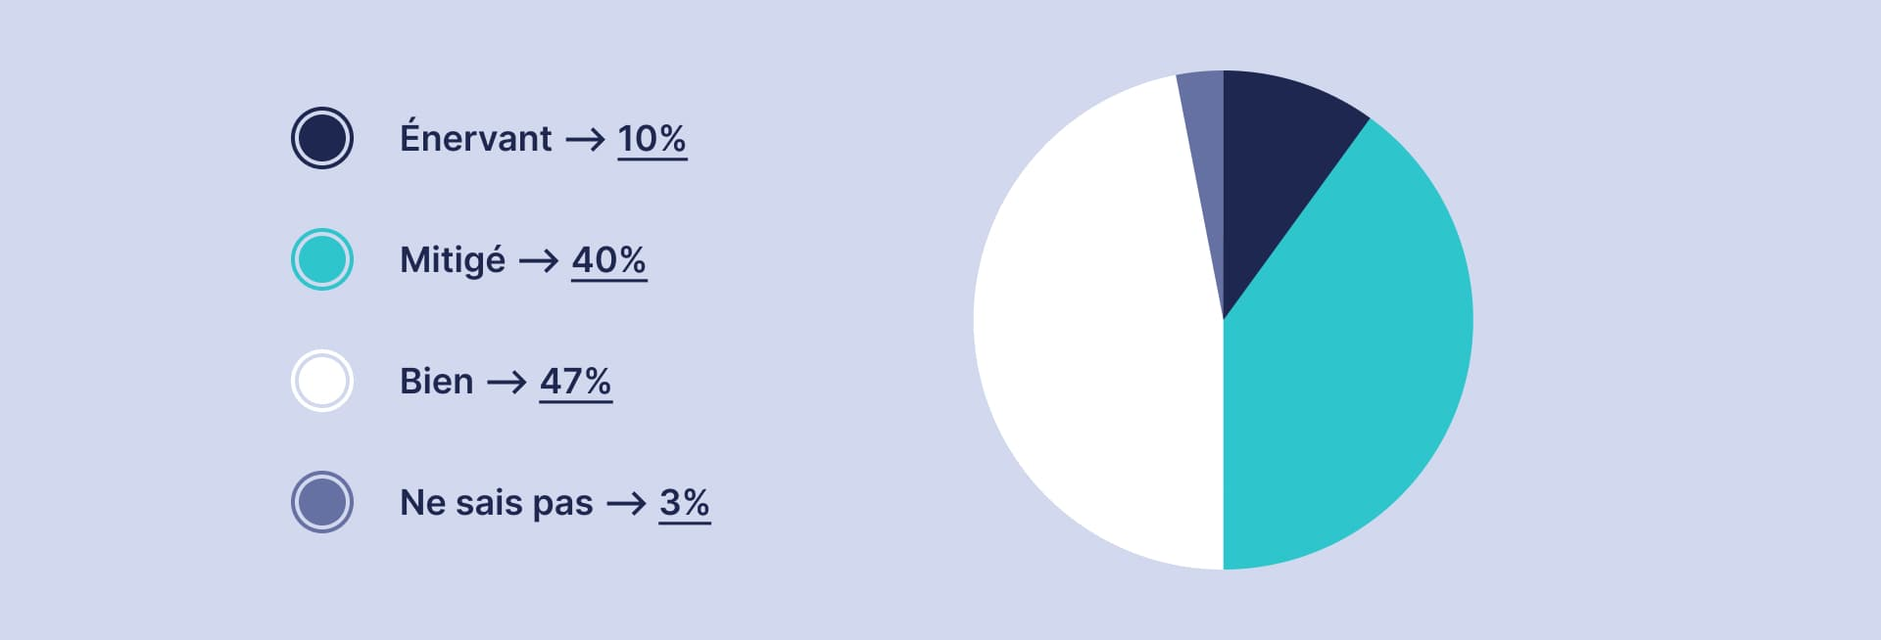
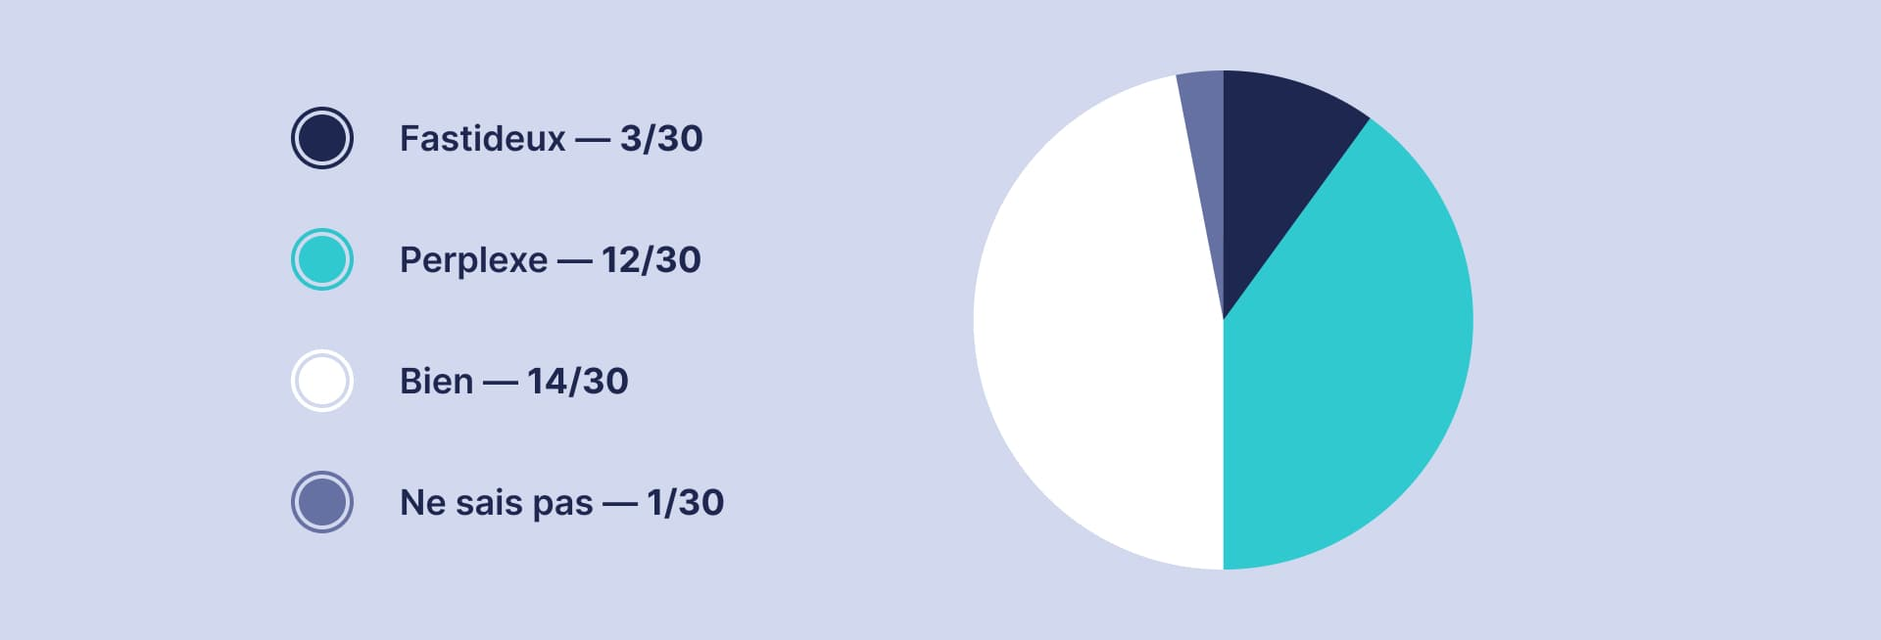
10 janvier
Amélioration rédaction + fonctionnalités

diff --git a/index.html b/index.html
@@ -11,6 +11,7 @@
   <link rel="stylesheet" href="css/style.css">  
   <script src="https://unpkg.com/phosphor-icons"></script>
   <title>Pour une autre expérience du formulaire numérique</title>
+  <link rel="icon" type="image/x-icon" href="./media/favicon.ico">
 </head>
 
 <body>
@@ -37,7 +38,7 @@
   <header>
     <h1>Pour une autre expérience du formulaire numérique</h1>
     <h2>Repenser une relation positive entre l'humain et la saisie de données par le design numérique.</h2>
-    <div class="presentation">Cyprien GUIGONNAT<br>Mémoire design (13 402 caractères)<br>DN MADe 3 Numérique, spécialité Graphisme<br>Pôle Supérieur de Design — Villefontaine (38)<br>2021 - 2022</div>
+    <div class="presentation">Cyprien GUIGONNAT<br>Mémoire design (13 402 caractères)<br>DN MADe 3 Numérique, spécialité Graphisme<br>Pôle Supérieur de Design — Villefontaine (38), France<br>2021 / 2022</div>
   </header>
 
   <main>
@@ -54,10 +55,10 @@
       </section>
 
       <!-- Introduction -->
-      <section id="intro">
+      <section>
         <h3 class="content" id="ch_1">Introduction</h3>
         <div class="content">
-          <p class="start-sentence">Le formulaire numérique est imposé par les plateformes pour s'inscrire, s'enregistrer, acheter, postuler, ou donner son avis. Souvent nécessaire voire obligatoire, c’est un moyen efficace et direct pour les services de collecter les informations de leur utilisateur grâce au cheminement de champs de saisie qu'ils sont amenés à suivre. Contrairement au format papier, les formulaires numériques se sont démarqués pour leur simplicité de réception, d'envoi et de traitement des données saisies. Cependant, devoir remplir un formulaire numérique reste toujours une tâche ardue et confuse pour l’utilisateur <sup class="visual-note"><a href="#toFig1">[Figure 1]</a></sup>. Généralement automatisé, le formulaire numérique peine à établir une expérience virtuose lors de son utilisation. De nombreuses solutions ont émergé dès les années 2000 par les bonnes pratiques du design de l'expérience utilisateur (UX)<sup class="footnote">1</sup> ou d’interface utilisateur (UI)<sup class="footnote">2</sup>. Néanmoins, aucune d’entre elles ne remet en question le cœur de l’interaction entre un humain et un formulaire numérique.</p>
+          <p class="start-sentence">Le formulaire numérique est imposé par les plateformes pour s'inscrire, s'enregistrer, acheter, postuler, ou donner son avis. Souvent nécessaire voire obligatoire, c’est un moyen efficace et direct pour les services de collecter les informations de leur utilisateur grâce au cheminement de champs de saisie qu'ils sont amenés à suivre. Contrairement au format papier, les formulaires numériques se sont démarqués pour leur simplicité de réception, d'envoi et de traitement des données saisies. Cependant, devoir remplir un formulaire numérique reste toujours une tâche fastidieuse et accablante pour l’utilisateur <sup class="visual-note"><a href="#toFig1">[Figure 1]</a></sup>. Généralement automatisé, le formulaire numérique peine à établir une expérience virtuose lors de son utilisation. De nombreuses solutions ont émergé dès les années 2000 par les bonnes pratiques du design de l'expérience utilisateur (UX)<sup class="footnote">1</sup> ou d’interface utilisateur (UI)<sup class="footnote">2</sup>. Néanmoins, aucune d’entre elles ne remettent en question le cœur de l’interaction entre un humain et un formulaire numérique.</p>
           <figure id="toFig1">
             <img src="./media/evolution_formulaire.jpg" alt="[Image] Évolution du format du formulaire">
             <figcaption><sup>[Figure 1]</sup> Schéma représentant l'évolution des caractéristiques du formulaire, en format papier et numérique.</figcaption>
@@ -74,7 +75,7 @@
         </aside>
         <div class="content">
           <p>Seulement, dans l’expansion mondiale d’Internet et des nouvelles technologies numériques de la fin du XXe siècle, la numérisation du formulaire est considérée comme un espace de saisie dans une interface utilisateur permettant une personnalisation de l’interaction entre l’humain et le formulaire numérique. Dès lors, la personnalisation peut permettre une expérience adaptable et flexible pour l'utilisateur. Le formulaire peut ainsi apporter une autre dimension expérimentale afin d’exprimer ce qu’il peut véhiculer : une relation d’un humain à une interface, mémorable. Ainsi, comment repenser une relation positive entre un humain et un formulaire numérique ?</p>
-          <p>Pour répondre à ce questionnement, nous nous pencherons dans un premier temps sur les coercitions<sup class="footnote">3</sup> des formulaires numériques, en exposant la formalité de leurs compositions, puis en spécifiant de quelles façons leurs contenus peuvent être formatés. Dans un second temps, nous nous questionnerons sur l'amélioration de la flexibilité du formulaire numérique par le design numérique<sup class="footnote">4</sup>, en explorant sa forme et l'expression de son contenu.</p>
+          <p>Pour répondre à cette question, nous nous pencherons dans un premier temps sur les coercitions<sup class="footnote">3</sup> des formulaires numériques, en exposant la formalité de leurs compositions, puis en spécifiant de quelles façons leurs contenus peuvent être formatés. Dans un second temps, nous nous questionnerons sur l'amélioration de la flexibilité du formulaire numérique par le design numérique<sup class="footnote">4</sup>, en explorant sa forme et l'expression de son contenu.</p>
         </div>
         <aside>
           <p><sup>3</sup>Une définition de « coercition » selon le CNRTL (Centre National de Ressources Textuelles et Lexicales) : « Action, droit de contraindre quelqu'un à accomplir son devoir, à obéir à la loi. ».<br><i class="ph-link"></i> CNRTL. « coercition », [En ligne] <a href="https://www.cnrtl.fr/definition/coercition" target="_blank">https://www.cnrtl.fr/definition/coercition</a>.</p>
@@ -86,21 +87,21 @@
       <section>
         <h3 class="content" id="ch_2">I - Des formulaires numériques coercitifs</h3>
         <div class="content">
-          <p class="start-sentence">À l’heure où les formulaires numériques sont toujours utiles pour traiter des données personnelles à des fins administratives, leur usage n’en est pas davantage entraînant ou actualisé</p>
+          <p class="start-sentence">À l’heure où les formulaires numériques sont toujours utiles pour traiter des données personnelles à des fins administratives, leur usage n’en est pas davantage entraînant ou actualisé.</p>
           <!-- (I.1) Des contraintes formelles -->
           <h4>I.1 - Des contraintes formelles</h4>
-          <p>Pour comprendre la source de ses problèmes, il faut tout d’abord interroger la forme des formulaires numériques. Aux abords de son format papier, un formulaire est reconnaissable par l’humain par sa composition scrupuleuse. Un titre, une description, un champ de texte, des cases à cocher, etc. Elle se trouve naturellement perceptible dans les formulaires numériques à travers l’héritage qu’ils ont pu recevoir du formulaire papier. Cela sollicite l’utilisateur à se prévisualiser les informations personnelles qu’il s'apprête à entrer d’une manière oppressante. Google Forms <sup class="visual-note"><a href="#toFig3">[Figure 3]</a></sup>, outil de création et de partage de formulaire en ligne depuis 2006, est une des représentations courantes à ce jour du modèle d’un cheminement coercitif. Selon mon enquête exercé sur ce même outil, 10% des utilisateurs (soit 3 sur 30) ont pensé que leur expérience dans mon formulaire leur a été énervante, et 40% (soit 12 sur 30) ont été mitigés <sup class="visual-note"><a href="#toFig4">[Figure 4]</a></sup>.</p>
+          <p>Pour comprendre la source de ses problèmes, il faut tout d’abord interroger la forme des formulaires numériques. Aux abords de son format papier, un formulaire est reconnaissable par l’humain par sa composition scrupuleuse. Un titre, une description, un champ de texte, des cases à cocher, etc. Elle se trouve naturellement perceptible dans les formulaires numériques à travers l’héritage qu’ils ont pu recevoir du formulaire papier. Cela sollicite l’utilisateur à se prévisualiser les informations personnelles qu’il s'apprête à entrer d’une manière oppressante. Google Forms, outil de création et de partage de formulaire en ligne depuis 2006, est une des représentations courantes à ce jour du modèle d’un cheminement coercitif. J'ai réalisé un sondage sur ce même outil afin de déterminer le ressenti de l’utilisateur à devoir parcourir ce formulaire numérique <sup class="visual-note"><a href="#toFig3">[Figure 3]</a></sup>. Sur trente retours, trois personnes l'ont jugé fastidieux, et douze d'entre eux étaient perplexes. <sup class="visual-note"><a href="#toFig4">[Figure 4]</a></sup>.</p>
           <figure id="toFig3">
             <img src="./media/google-forms.jpg" alt="[Image] Capture d'écran enquête Google Forms">
             <figcaption><sup>[Figure 3]</sup> Capture d'écran de l'outil Google Forms pour l'enquête : « The human and the digital forms » (L'humain et les formulaires numériques, en français). 2021 [En ligne] <a href="https://forms.gle/jY3knJXaJJqnAh3v7" target="_blank">https://forms.gle/jY3knJXaJJqnAh3v7</a>.</figcaption>
           </figure>
           <figure id="toFig4">
             <img src="./media/statistiques_google-forms.jpg" alt="[Image] Résultat des statistiques de mon enquête Google Forms">
-            <figcaption><sup>[Figure 4]</sup> Résultat en pourcentage de quatre réponses (Énervant, Mitigé, Bien, Ne sais pas) représenté par un diagramme circulaire sur la question : « Qu'avez-vous pensé de votre expérience dans ce formulaire numérique ? ». 2021 [En ligne] <a href="https://forms.gle/jY3knJXaJJqnAh3v7" target="_blank">https://forms.gle/jY3knJXaJJqnAh3v7</a>.</figcaption>
+            <figcaption><sup>[Figure 4]</sup> Résultat d'un échantillon de trente personnes entre quatre réponses (« Fastidieux », « Perplexe », « Bien », « Ne sais pas ») sur la question : « Qu'avez-vous pensé de votre expérience dans ce formulaire numérique ? », représenté par un diagramme circulaire. 2021 [En ligne] <a href="https://forms.gle/jY3knJXaJJqnAh3v7" target="_blank">https://forms.gle/jY3knJXaJJqnAh3v7</a>.</figcaption>
           </figure>
         </div>
         <div class="content">
-            <p>Cela étant dit, cette composition réglementaire de ce formulaire numérique peut confirmer que son utilisation peut éprouver de la contrariété pour l’utilisateur. De plus, elle peut être reconnaissable dans d’autres plateformes en ligne. Le fait de se créer un nouveau compte sur chacun de nos nouveaux services comme le réseau social Twitter  par exemple <sup class="visual-note"><a href="#toFig5">[Figure 5]</a></sup>, ou renseigner ses coordonnées sur Amazon <sup class="visual-note"><a href="#toFig6">[Figure 6]</a></sup> afin d’acheter nos produits de prédilection. Toutes ces tâches sont astreignantes<sup class="footnote">5</sup> pour l’utilisateur à cause d’une nécessité imposée par les services d’acquérir nos informations personnelles.</p>
+            <p>Cela étant dit, cette composition réglementaire de ce formulaire numérique peut confirmer que son utilisation peut éprouver de la contrariété pour l’utilisateur. De plus, elle peut être reconnaissable dans d’autres plateformes en ligne. Le fait de se créer un nouveau compte sur chacun de nos nouveaux services comme le réseau social Twitter  par exemple <sup class="visual-note"><a href="#toFig5">[Figure 5]</a></sup>, ou renseigner ses coordonnées sur Amazon <sup class="visual-note"><a href="#toFig6">[Figure 6]</a></sup> afin d’acheter nos produits de prédilection. Toutes ces tâches sont astreignantes<sup class="footnote">5</sup> à cause d’une nécessité imposée par les services d’acquérir nos informations personnelles.</p>
         </div>
         <aside>
           <p><sup>5</sup>Une définition de « astreignant(e) » selon le CNRTL : « Assujettir quelqu'un à quelque chose, lui imposer une règle, une discipline ou bien un acte, qui revêtent un caractère d'obligation rigoureuse. » (sens A.2).<br><i class="ph-link"></i> CNRTL. « astreignant(e) », [En ligne] <a href="https://www.cnrtl.fr/definition/astreignant//1" target="_blank">https://www.cnrtl.fr/definition/astreignant//1</a>.</p>
@@ -116,7 +117,7 @@
           </figure>
         </div>
         <div class="content">          
-          <p>De même, cette cause peut prendre de l’ampleur, car une trop grande quantité d’information à renseigner pour l’utilisateur peut entraîner un allongement du temps de complétion. Par exemple, devoir remplir et assimiler la quantité d’informations des documents administratifs de la CAF <sup class="visual-note"><a href="#toFig7">[Figure 7]</a></sup> devient contraignante voire pesante pour l’utilisateur. Selon Hélène Bégon (Haute fonctionnaire, cabinet du commissaire général au développement durable), 68% des français déclarent connaître des freins à l’utilisation de l’administration en ligne<sup class="footnote">6</sup>. Entre le manque général d’aisance en connaissance informatique, la difficulté à joindre un agent, ou la complexité des démarches et des procédures ; tous ces freins sont dû à une identité donnée accablante du formulaire numérique.</p>
+          <p>Lorsque la quantité d'information est trop importante, cela devient chronophage pour l'utilisateur. Par exemple, devoir remplir et assimiler la quantité d’informations des documents administratifs de la CAF <sup class="visual-note"><a href="#toFig7">[Figure 7]</a></sup> devient contraignant voire pesant pour l’utilisateur. Selon Hélène Bégon (Haute fonctionnaire, cabinet du commissaire général au développement durable), 68% des français déclarent connaître des freins à l’utilisation de l’administration en ligne<sup class="footnote">6</sup>. Le manque général d’aisance en connaissance informatique, la difficulté à joindre un agent, ou la complexité des démarches et des procédures, contribuent au fait que le formulaire numérique devient astreignant.</p>
         </div>
         <aside>
           <p><sup>6</sup>Statistique donnée partie une : « Une dématérialisation croissante des services publics », paragraphe 10, de l'article ci-dessous selon Hélène Bégon.<br><i class="ph-link"></i> Hélène Bégon. « Transformation numérique de l’action publique : les risques de la dématérialisation pour les usagers », 2021 <a href="https://www.vie-publique.fr/parole-dexpert/278016-risques-de-la-dematerialisation-pour-les-usagers-des-services-publics" target="_blank">https://www.vie-publique.fr/parole-dexpert/278016-risques-de-la-dematerialisation-pour-les-usagers-des-services-publics</a>.</p>
@@ -248,8 +249,8 @@
       <section>
         <h3 class="content" id="ch_5">Conclusion</h3>
         <div class="content">
-          <p class="start-sentence">Sujet d’une expérience interactive entre une interface numérique et un humain, le formulaire numérique se caractérise par sa volonté d’enregistrer nos informations personnelles. Nous semblons dans un premier temps le subir de par une nécessité imposée par les services d’acquérir ces informations; autant sur le rapport de notre ressenti (pour sa forme) que sur notre rapport intellectuel (pour sa modalité de saisie).</p>
-          <p>Par ailleurs, l’effet d’expérience qu’il établit avec l’humain et l’interface numérique amène le designer numérique à l’enchanter, en fabriquant la perception idéale du parcours utilisateur. Toutefois, il en doit de son engagement afin de prendre en considération l’éthique de ses pouvoirs décisionnels. Peut-être que nous pourrions mettre l’humain au service des formulaires numériques, en établissant une personnalisation de leurs expériences. Nous pourrions nous tourner vers une caractérisation du formulaire numérique, en coordination avec le designer et ses utilisateurs, permettant de considérer que l’utilisateur deviendrait son propre phénomène d’usage.</p>
+          <p class="start-sentence">Sujet d’une expérience interactive entre une interface numérique et un humain, le formulaire numérique se caractérise par sa facilité à pouvoir récupérer nos informations personnelles. Nous semblons dans un premier temps le subir par la nécessité imposée par les services d’acquérir ces informations; autant par rapport à sa forme (dans notre ressenti global) que pour sa modalité de saisie (dans notre rapport intellectuel).</p>
+          <p>Par ailleurs, l’effet d’expérience qu’il établit avec l’humain et l’interface numérique amène le designer numérique à l’enchanter, en fabriquant la perception idéale du parcours utilisateur. Toutefois, il en doit de son engagement afin de prendre en considération l’éthique de ses pouvoirs décisionnels. Peut-être que nous pourrions mettre l’humain au service des formulaires numériques, en établissant une personnalisation de leurs expériences. Nous pourrions nous tourner vers une caractérisation du formulaire numérique, en coordination avec le designer et ses utilisateurs, permettant de considérer qu'ils deviendraient leur propre phénomène d’usage.</p>
         </div>
       </section>
 
@@ -266,22 +267,22 @@
         <!-- Webographie -->
         <div class="content">
           <h3 class="content" id="ch_7">Webographie</h3>
-          <p><sup class="webo">1</sup>Donald Norman et Jakob Nielsen (NN/g). « The Definition of User Experience (UX) », 1998-2021 [En ligne] <a href="https://www.nngroup.com/articles/definition-user-experience/" target="_blank">↗ https://www.nngroup.com/articles/definition-user-experience/</a>.</p>
-          <p><sup class="webo">2</sup>Coursera. « What Is a User Interface (UI) Designer ? », 2021 [En ligne] <a href="https://www.coursera.org/articles/what-is-a-user-interface-ui-designer-guide" target="_blank">↗ https://www.coursera.org/articles/what-is-a-user-interface-ui-designer-guide</a>.</p>
-          <p><sup class="webo">3</sup>CNRTL. « coercition », [En ligne] <a href="https://www.cnrtl.fr/definition/coercition" target="_blank">↗ https://www.cnrtl.fr/definition/coercition</a>.</p>
-          <p><sup class="webo">4</sup>Stéphane Vial (Interfaces numériques). « Qu’appelle-t-on « design numérique » ? », 2018 [En ligne] <a href="https://www.unilim.fr/interfaces-numeriques/163" target="_blank">↗ https://www.unilim.fr/interfaces-numeriques/163</a>.</p>
-          <p><sup class="webo">5</sup>CNRTL. « astreignant(e) », [En ligne] <a href="https://www.cnrtl.fr/definition/astreignant//1" target="_blank">↗ https://www.cnrtl.fr/definition/astreignant//1</a>.</p>
-          <p><sup class="webo">6</sup>Hélène Bégon. « Transformation numérique de l’action publique : les risques de la dématérialisation pour les usagers », 2021 <a href="https://www.vie-publique.fr/parole-dexpert/278016-risques-de-la-dematerialisation-pour-les-usagers-des-services-publics" target="_blank">↗ https://www.vie-publique.fr/parole-dexpert/278016-risques-de-la-dematerialisation-pour-les-usagers-des-services-publics</a>.</p>
-          <p><sup class="webo">7</sup>Yuxuan (Tammy) Zhou (NN/g). « Design Guidelines for Input Steppers », 2018 [En ligne] <a href="https://www.nngroup.com/articles/input-steppers/" target="_blank">↗ https://www.nngroup.com/articles/input-steppers/</a>.</p>
-          <p><sup class="webo">8</sup>HadBujonRébecca (Idées - Doctolib). « Reconnaissance vocale pour les aveugles », 2020 [En ligne] <a href="https://community.doctolib.com/t5/id%C3%A9es/reconnaissance-vocale-pour-les-aveugles/idi-p/13285" target="_blank">↗ https://community.doctolib.com/t5/id%C3%A9es/reconnaissance-vocale-pour-les-aveugles/idi-p/13285</a>.</p>
-          <p><sup class="webo">11</sup>Le Printemps de septembre (YouTube). « Stéphane Vial | L'être et l'écran », 2019 [En ligne] <a href="https://www.youtube.com/watch?v=IerJTJcIz5g" target="_blank">↗ https://www.youtube.com/watch?v=IerJTJcIz5g" target="_blank</a>.</p>
-          <p><sup class="webo">12</sup>Daniel Kahneman (RSE Magazine). « Daniel Kahneman et les biais cognitifs », 2020 [En ligne] <a href="https://www.rse-magazine.com/Daniel-Kahneman-et-les-biais-cognitifs_a3445.html" target="_blank">↗ https://www.rse-magazine.com/Daniel-Kahneman-et-les-biais-cognitifs_a3445.html</a>.</p>
-          <p><sup class="webo">13</sup>Jon Yablonski. « Laws of UX », [En ligne] <a href="https://lawsofux.com/" target="_blank">↗ https://lawsofux.com/</a>.</p>
-          <p><sup class="webo">14</sup> Luke Wroblewski (LukeW Ideation + Design). « Mobile First », 2012 [En ligne] <a href="https://www.lukew.com/presos/preso.asp?26" target="_blank">↗ https://www.lukew.com/presos/preso.asp?26</a>.</p>
-          <p><sup class="webo">15</sup>Michel Perret (OpenEdition). « Stéphane Vial, <em>L’être et l’écran</em> : comment le numérique change la perception », 2013 [En ligne] <a href="https://journals.openedition.org/lectures/12670" target="_blank">↗ https://journals.openedition.org/lectures/12670</a>.</p>
-          <p><sup class="webo">16</sup>Samyukta Sherugar et Raluca Budiu (NN/g). « Direct Manipulation: Definition », 2016 [En ligne] <a href="https://www.nngroup.com/articles/direct-manipulation/" target="_blank">↗ https://www.nngroup.com/articles/direct-manipulation/</a>.</p>
-          <p><sup class="webo">17</sup>CNRTL. « réification », [En ligne] <a href="https://www.cnrtl.fr/definition/r%C3%A9ification" target="_blank">↗ https://www.cnrtl.fr/definition/r%C3%A9ification</a>.</p>
-          <p><sup class="webo">18</sup>DesignGouv. « Accessibilité numérique », [En ligne] <a href="https://design.numerique.gouv.fr/accessibilite-numerique/" target="_blank">↗ https://design.numerique.gouv.fr/accessibilite-numerique/</a>.</p>
+          <p><sup class="webo">1</sup>Donald Norman et Jakob Nielsen (NN/g). « The Definition of User Experience (UX) », 1998-2021 [En ligne] <a href="https://www.nngroup.com/articles/definition-user-experience/" target="_blank"><i class="ph-arrow-up-right"></i> https://www.nngroup.com/articles/definition-user-experience/</a>.</p>
+          <p><sup class="webo">2</sup>Coursera. « What Is a User Interface (UI) Designer ? », 2021 [En ligne] <a href="https://www.coursera.org/articles/what-is-a-user-interface-ui-designer-guide" target="_blank"><i class="ph-arrow-up-right"></i> https://www.coursera.org/articles/what-is-a-user-interface-ui-designer-guide</a>.</p>
+          <p><sup class="webo">3</sup>CNRTL. « coercition », [En ligne] <a href="https://www.cnrtl.fr/definition/coercition" target="_blank"><i class="ph-arrow-up-right"></i> https://www.cnrtl.fr/definition/coercition</a>.</p>
+          <p><sup class="webo">4</sup>Stéphane Vial (Interfaces numériques). « Qu’appelle-t-on « design numérique » ? », 2018 [En ligne] <a href="https://www.unilim.fr/interfaces-numeriques/163" target="_blank"><i class="ph-arrow-up-right"></i> https://www.unilim.fr/interfaces-numeriques/163</a>.</p>
+          <p><sup class="webo">5</sup>CNRTL. « astreignant(e) », [En ligne] <a href="https://www.cnrtl.fr/definition/astreignant//1" target="_blank"><i class="ph-arrow-up-right"></i> https://www.cnrtl.fr/definition/astreignant//1</a>.</p>
+          <p><sup class="webo">6</sup>Hélène Bégon. « Transformation numérique de l’action publique : les risques de la dématérialisation pour les usagers », 2021 <a href="https://www.vie-publique.fr/parole-dexpert/278016-risques-de-la-dematerialisation-pour-les-usagers-des-services-publics" target="_blank"><i class="ph-arrow-up-right"></i> https://www.vie-publique.fr/parole-dexpert/278016-risques-de-la-dematerialisation-pour-les-usagers-des-services-publics</a>.</p>
+          <p><sup class="webo">7</sup>Yuxuan (Tammy) Zhou (NN/g). « Design Guidelines for Input Steppers », 2018 [En ligne] <a href="https://www.nngroup.com/articles/input-steppers/" target="_blank"><i class="ph-arrow-up-right"></i> https://www.nngroup.com/articles/input-steppers/</a>.</p>
+          <p><sup class="webo">8</sup>HadBujonRébecca (Idées - Doctolib). « Reconnaissance vocale pour les aveugles », 2020 [En ligne] <a href="https://community.doctolib.com/t5/id%C3%A9es/reconnaissance-vocale-pour-les-aveugles/idi-p/13285" target="_blank"><i class="ph-arrow-up-right"></i> https://community.doctolib.com/t5/id%C3%A9es/reconnaissance-vocale-pour-les-aveugles/idi-p/13285</a>.</p>
+          <p><sup class="webo">11</sup>Le Printemps de septembre (YouTube). « Stéphane Vial | L'être et l'écran », 2019 [En ligne] <a href="https://www.youtube.com/watch?v=IerJTJcIz5g" target="_blank"><i class="ph-arrow-up-right"></i> https://www.youtube.com/watch?v=IerJTJcIz5g" target="_blank</a>.</p>
+          <p><sup class="webo">12</sup>Daniel Kahneman (RSE Magazine). « Daniel Kahneman et les biais cognitifs », 2020 [En ligne] <a href="https://www.rse-magazine.com/Daniel-Kahneman-et-les-biais-cognitifs_a3445.html" target="_blank"><i class="ph-arrow-up-right"></i> https://www.rse-magazine.com/Daniel-Kahneman-et-les-biais-cognitifs_a3445.html</a>.</p>
+          <p><sup class="webo">13</sup>Jon Yablonski. « Laws of UX », [En ligne] <a href="https://lawsofux.com/" target="_blank"><i class="ph-arrow-up-right"></i> https://lawsofux.com/</a>.</p>
+          <p><sup class="webo">14</sup> Luke Wroblewski (LukeW Ideation + Design). « Mobile First », 2012 [En ligne] <a href="https://www.lukew.com/presos/preso.asp?26" target="_blank"><i class="ph-arrow-up-right"></i> https://www.lukew.com/presos/preso.asp?26</a>.</p>
+          <p><sup class="webo">15</sup>Michel Perret (OpenEdition). « Stéphane Vial, <em>L’être et l’écran</em> : comment le numérique change la perception », 2013 [En ligne] <a href="https://journals.openedition.org/lectures/12670" target="_blank"><i class="ph-arrow-up-right"></i> https://journals.openedition.org/lectures/12670</a>.</p>
+          <p><sup class="webo">16</sup>Samyukta Sherugar et Raluca Budiu (NN/g). « Direct Manipulation: Definition », 2016 [En ligne] <a href="https://www.nngroup.com/articles/direct-manipulation/" target="_blank"><i class="ph-arrow-up-right"></i> https://www.nngroup.com/articles/direct-manipulation/</a>.</p>
+          <p><sup class="webo">17</sup>CNRTL. « réification », [En ligne] <a href="https://www.cnrtl.fr/definition/r%C3%A9ification" target="_blank"><i class="ph-arrow-up-right"></i> https://www.cnrtl.fr/definition/r%C3%A9ification</a>.</p>
+          <p><sup class="webo">18</sup>DesignGouv. « Accessibilité numérique », [En ligne] <a href="https://design.numerique.gouv.fr/accessibilite-numerique/" target="_blank"><i class="ph-arrow-up-right"></i> https://design.numerique.gouv.fr/accessibilite-numerique/</a>.</p>
         </div>
       </section>
 
@@ -289,8 +290,8 @@
         <!-- Annexe -->
         <h3 class="content" id="ch_8">Annexe</h3>
         <div class="content">
-          <p>Enquête : « The human and the digital forms », 2021 [En ligne] <a href="https://forms.gle/jY3knJXaJJqnAh3v7" target="_blank">↗ https://forms.gle/jY3knJXaJJqnAh3v7</a>.</p>
-          <p>Débat : « Comment repenser une relation positive entre un humain et les formulaires numériques ? », 2021 [En ligne] <a href="https://usbeketrica.com/fr/debat-comment-repenser-une-relation-positive-entre-un-humain-et-les-formulaires-numeriques" target="_blank">↗ https://usbeketrica.com/fr/debat-comment-repenser-une-relation-positive-entre-un-humain-et-les-formulaires-numeriques</a>.</p>
+          <p>Enquête : « The human and the digital forms », 2021 [En ligne] <a href="https://forms.gle/jY3knJXaJJqnAh3v7" target="_blank"><i class="ph-arrow-up-right"></i> https://forms.gle/jY3knJXaJJqnAh3v7</a>.</p>
+          <p>Débat : « Comment repenser une relation positive entre un humain et les formulaires numériques ? », 2021 [En ligne] <a href="https://usbeketrica.com/fr/debat-comment-repenser-une-relation-positive-entre-un-humain-et-les-formulaires-numeriques" target="_blank"><i class="ph-arrow-up-right"></i> https://usbeketrica.com/fr/debat-comment-repenser-une-relation-positive-entre-un-humain-et-les-formulaires-numeriques</a>.</p>
         </div>
       </section>
 
@@ -302,8 +303,8 @@
     <!-- Remerciements -->
     <div class="h5">Remerciements</div>
     <div class="content">
-      <p class="start-sentence">Dans la finalité de ce mémoire, je tiens à remercier toutes les personnes qui ont sû m'aider et m'accompagner dans la réalisation de ce travail. Merci à mon tuteur Kévin Vennitti et ma professeure de philosophie Valentine Reynaud de m'avoir conseillé, votre expérience m'a été d'une grande aide dans l'enrichissement ma refléxion.</p>
-      <p>Merci à mes proches et à mon entourage d'avoir contribué à l'alimentation de ce mémoire, vos réponses à mes interrogations m'ont permis de m'apporter un recul nécessaire à la rédaction de ce mémoire.</p>
+      <p class="start-sentence">Dans la finalité de ce mémoire, je tiens à remercier toutes les personnes qui ont su m'aider et m'accompagner dans la réalisation de ce travail. Je remercie mon tuteur Kévin VENNITTI et ma professeure de philosophie Valentine REYNAUD de m'avoir conseillé durant ces six mois de rédaction, votre expérience m'a été d'une grande aide dans l'enrichissement et le développement de ma réflexion.</p>
+      <p>Merci à mes amis, ma famille et à mon entourage d'avoir contribué à l'alimentation de ce mémoire, vos réponses à mes interrogations m'ont permis de m'apporter un recul nécessaire à son écriture. Pour finir, je tiens sincèrement à remercier Vincent DEL JESUS qui m'a épaulé dans l'intégration HTML, CSS, et JavaScript de ce mémoire. Merci pour toute son implication et son expertise dans la conception de la mise en page <em>responsive</em> et des fonctionnalités interactives du site web.</p>
     </div>
   </footer>
 

diff --git a/css/style.css b/css/style.css
@@ -5,11 +5,12 @@
   font-family: 'Inter', sans-serif;
 */
 
-:root {
+ :root {
   --col-bg: rgba(30, 39, 80, 1);
   --col-text: rgba(255, 255, 255, 1);
-  --col-primary: rgba(46, 197, 204, 1);
-  --col-caption: rgba(188, 196, 230, 1);
+  --col-primary: rgba(48, 201, 208, 1);
+  --col-primary-active: rgba(48, 201, 208, 0.8);
+  --col-caption: rgba(210, 216, 238, 1);
   --col-secondary: rgba(47, 62, 126, 1);
   --layout-gutter: clamp(1.5rem, 7vw, 6rem);
   font-size: 16px;
@@ -22,10 +23,11 @@
 }
 
 .th-light {
-  --col-bg: rgba(241, 241, 241, 1);
+  --col-bg: rgba(250, 250, 250, 1);
   --col-text: rgba(30, 39, 80, 1);
-  --col-primary: rgba(39, 169, 175, 1);
-  --col-caption: rgba(102, 113, 163, 1);
+  --col-primary: rgba(36, 158, 164, 1);  
+  --col-primary-active: rgba(36, 158, 164, 0.8);
+  --col-caption: rgba(61, 69, 102, 1);
   --col-secondary: rgba(218, 222, 241, 1);
 }
 
@@ -306,12 +308,34 @@ a {
   word-break: break-all;
 }
 
-p a:hover {
-  border-bottom: 1px solid var(--col-primary); 
+sup {  
+  color: var(--col-primary);
 }
 
+p a:hover {
+  border-bottom: 1px solid var(--col-primary);
+}
+p a:active {
+  color: var(--col-primary-active);
+}
+
+sup.footnote {
+  margin-right: 2px;
+  position: relative;
+  font-size: 0.85rem;
+  font-weight: 600;
+  top: -0.75em;
+}
+
+aside sup {
+  font-weight: 600;
+  margin-right: 8px;
+}
 aside a:hover {
-  border-bottom: 1px solid var(--col-primary); 
+  border-bottom: 1px solid var(--col-primary);
+}
+aside a:active {  
+  color: var(--col-primary-active);
 }
 aside a::before {
   content: url("../media/arrow-up-right.svg");
@@ -319,11 +343,18 @@ aside a::before {
 }
 
 figure a:hover {
-  border-bottom: 1px solid var(--col-primary) !important; 
+  border-bottom: 1px solid var(--col-primary); 
+}
+figure a:active {  
+  color: var(--col-primary-active); 
 }
 figure a::before {
   content: url("../media/arrow-up-right.svg");
   margin-right: 4px;
+}
+
+p sup.webo {
+  margin-right: 8px;
 }
 
 blockquote {
@@ -342,34 +373,6 @@ blockquote::before {
 blockquote::after {
   content: "»";
   margin-left: 8px;
-}
-
-sup {  
-  color: var(--col-primary);
-}
-
-sup.visual-note {
-  transition: all 0.25ms ease-in-out;
-}
-sup.visual-note:hover {
-  border-bottom: 1px solid var(--col-primary);
-}
-
-sup.footnote {
-  margin-right: 2px;
-  position: relative;
-  font-size: 0.85rem;
-  font-weight: 600;
-  top: -0.75em;
-}
-
-aside sup {
-  font-weight: 600;
-  margin-right: 8px;
-}
-
-p sup.webo {
-  margin-right: 8px;
 }
 
 em {
@@ -400,13 +403,17 @@ figcaption {
 /* Media queries */
 
 @media screen and (min-width: 1024px) {
-  section.exception-intro {
-    margin-bottom: -13rem;
-  }
   section.exception-trst {
     margin-bottom: -6rem;
   }
 }
+
+@media screen and (min-height: 1366px) {
+  section.exception-trst {
+    margin-bottom: -8rem;
+  }
+}
+
 @media screen and (max-width: 1023px) {
   section {
     grid-template-areas: "content";
@@ -439,11 +446,13 @@ figcaption {
 ::-webkit-scrollbar-track {
   background-color: rgba(188, 196, 230, 1);
 }
+
 ::-webkit-scrollbar {
   width: 1rem;
   height: 0.5rem;
   background-color: rgba(188, 196, 230, 1);
 }
+
 ::-webkit-scrollbar-thumb {
   background-color: var(--col-text);
 }
